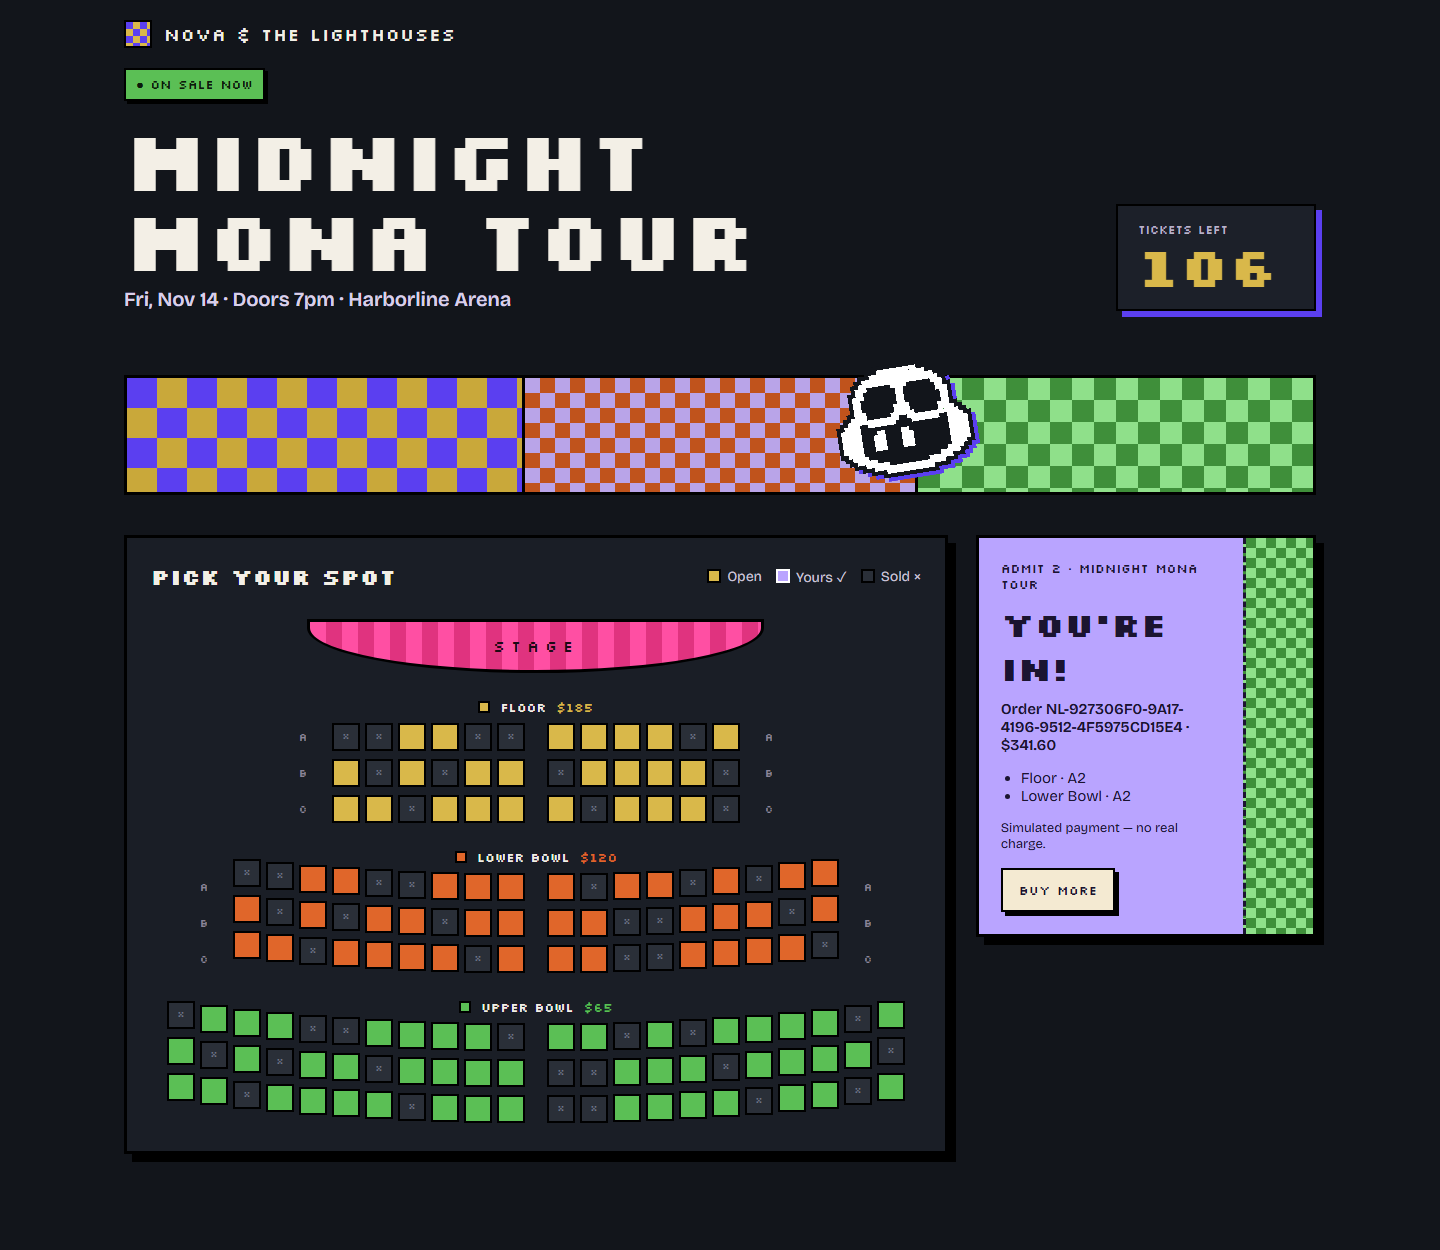
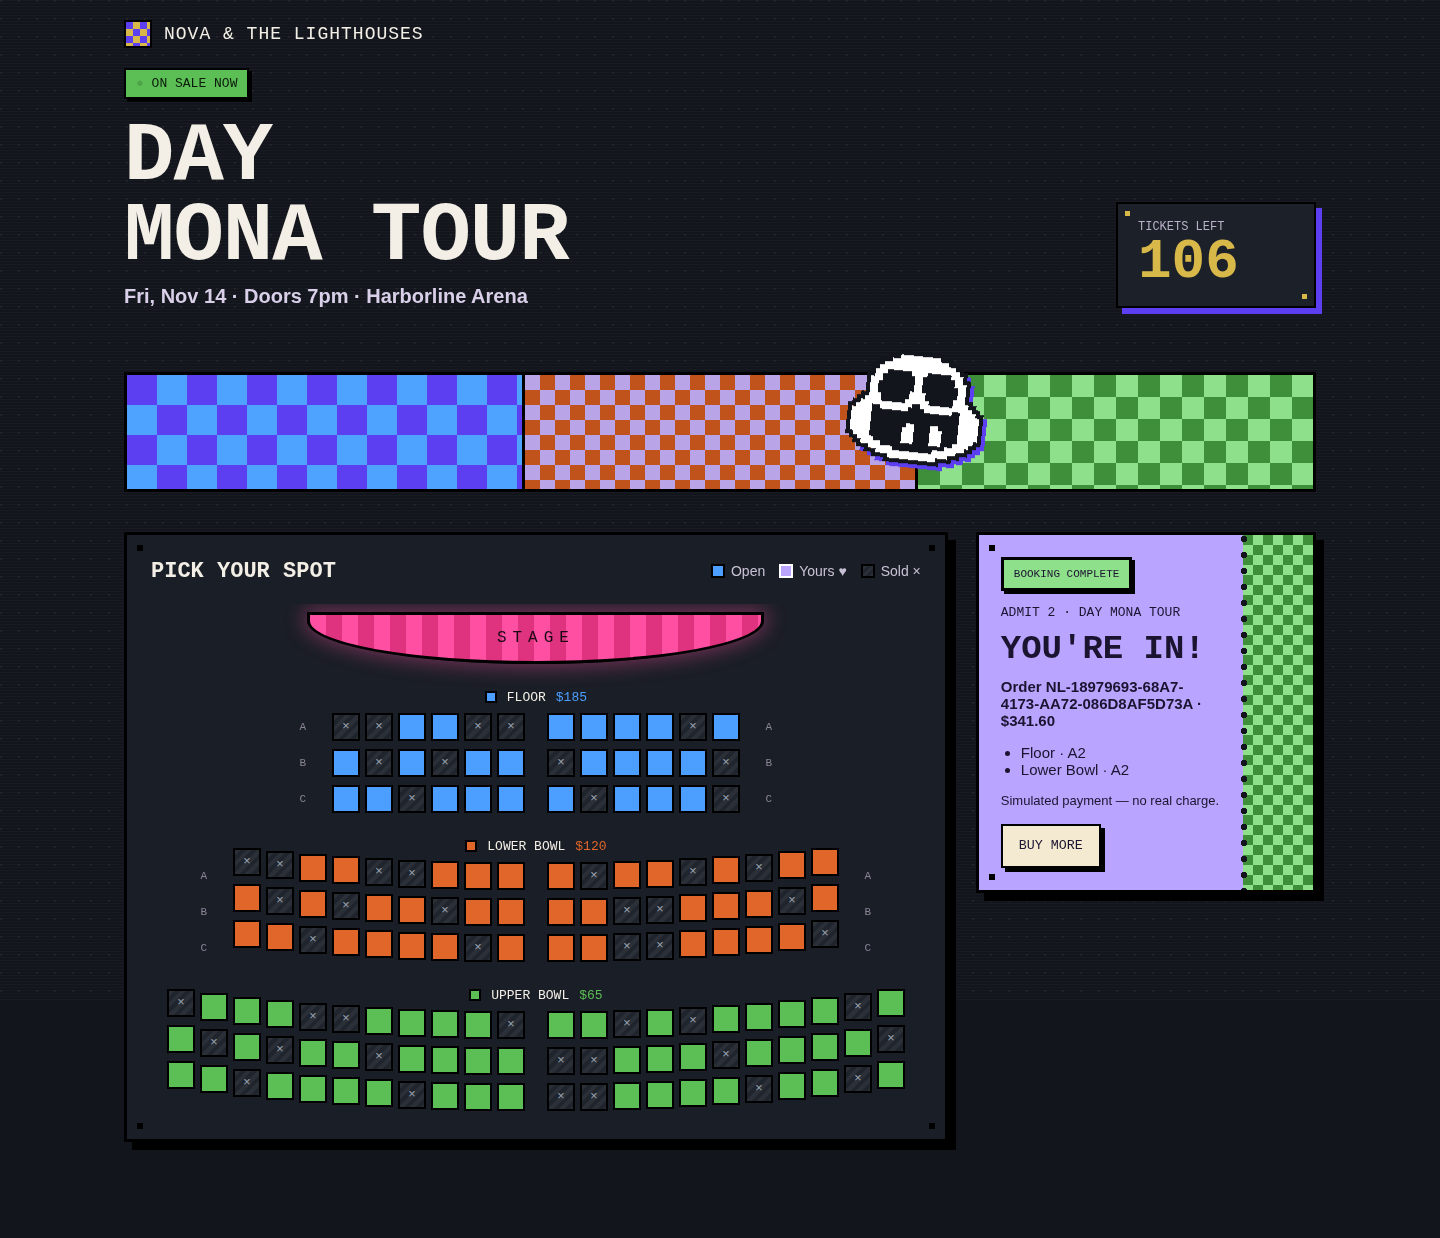
Update Day Mona tour booking colors and success celebration
Rename the tour across the UI, make Floor seats blue, and add reduced-motion-aware pixel confetti after successful checkout. Update the confirmation headline and refresh the existing UI screenshots.

diff --git a/src/main.ts b/src/main.ts
@@ -21,12 +21,13 @@ const CONFETTI_COLORS = ['var(--pink)', 'var(--mustard)', 'var(--mint)', 'var(--
 
 function confettiHTML(): string {
   let out = '';
-  for (let i = 0; i < 12; i++) {
-    const angle = Math.round((360 / 12) * i + (Math.random() * 20 - 10));
-    const dist = 40 + Math.round(Math.random() * 26);
-    const delay = (Math.random() * 0.15).toFixed(2);
+  for (let i = 0; i < 72; i++) {
+    const left = ((i + 0.5) / 72) * 100;
+    const drift = Math.round(Math.random() * 160 - 80);
+    const spin = (i % 2 === 0 ? 1 : -1) * 360;
+    const delay = (Math.random() * 0.8).toFixed(2);
     const color = CONFETTI_COLORS[i % CONFETTI_COLORS.length];
-    out += `<i style="--a:${angle}deg;--r:${dist}px;--d:${delay}s;--c:${color}"></i>`;
+    out += `<i style="--x:${left}%;--drift:${drift}px;--spin:${spin}deg;--d:${delay}s;--c:${color}"></i>`;
   }
   return out;
 }
@@ -123,7 +124,7 @@ function mount() {
     <div class="intro-marquee">
       <span class="marquee-bulbs" aria-hidden="true"></span>
       <span class="intro-kicker pixel">ONE NIGHT ONLY</span>
-      <h1 class="pixel intro-title" id="intro-title">MIDNIGHT<br />MONA TOUR</h1>
+      <h1 class="pixel intro-title" id="intro-title">${esc(EVENT.tour.toUpperCase()).replace(' ', '<br />')}</h1>
       <p class="intro-artist">${esc(EVENT.artist)}</p>
       <p class="intro-meta pixel">${esc(EVENT.date)} · ${esc(EVENT.venue)}</p>
       <button class="btn intro-enter" data-action="open-curtain">ENTER THE THEATER</button>
@@ -149,7 +150,7 @@ function mount() {
       <div class="hero-row">
         <div class="hero-copy">
           <span class="pill"><span class="dot">●</span> ON SALE NOW</span>
-          <h1 class="pixel hero-title">MIDNIGHT<br />MONA TOUR</h1>
+          <h1 class="pixel hero-title">${esc(EVENT.tour.toUpperCase()).replace(' ', '<br />')}</h1>
           <p class="hero-meta">${esc(`${EVENT.date} · ${EVENT.doors} · ${EVENT.venue}`)}</p>
         </div>
         <div class="counter" aria-live="polite">
@@ -173,7 +174,7 @@ function mount() {
         <div class="seatmap-head">
           <h2 class="pixel">PICK YOUR SPOT</h2>
           <div class="legend">
-            <span><i class="swatch swatch-open"></i>Open</span>
+            <span><i class="swatch swatch-open" style="background:${TIERS[0].color}"></i>Open</span>
             <span><i class="swatch swatch-mine"></i>Yours ♥</span>
             <span><i class="swatch swatch-sold"></i>Sold ×</span>
           </div>
@@ -259,9 +260,9 @@ function renderCart() {
     cart.innerHTML = `
       <section class="ticket pop" aria-label="Order confirmed">
         <div class="ticket-body">
-          <div class="confetti" aria-hidden="true">${confettiHTML()}</div>
+          <div class="pixel ticket-success">BOOKING COMPLETE</div>
           <div class="pixel ticket-kicker">ADMIT ${o.seats.length} · ${esc(EVENT.tour.toUpperCase())}</div>
-          <div class="pixel ticket-title">YOU'RE IN!</div>
+          <div class="pixel ticket-title">SEE YOU AT THE SHOW!</div>
           <div class="ticket-meta">Order ${esc(o.id)} · ${money(o.total)}</div>
           <ul class="ticket-seats">${o.seats.map((seat) => `<li>${esc(seat)}</li>`).join('')}</ul>
           <p class="ticket-note">Simulated payment — no real charge.</p>
@@ -322,6 +323,7 @@ function renderMobileBar() {
 }
 
 function render() {
+  document.querySelector('.confetti')?.remove();
   const left = ticketsLeft();
   $('#tickets-left').textContent = String(left);
   $('.counter').classList.toggle('counter--low', left > 0 && left <= LOW_TICKETS_THRESHOLD);
@@ -354,6 +356,14 @@ function confirmOrder(orderId: string, total: number, picked: Seat[]) {
   state.order = { id: orderId, total, seats: picked.map(seatName) };
   state.phase = 'confirmed';
   render();
+  if (!window.matchMedia('(prefers-reduced-motion: reduce)').matches) {
+    const celebration = document.createElement('div');
+    celebration.className = 'confetti';
+    celebration.setAttribute('aria-hidden', 'true');
+    celebration.innerHTML = confettiHTML();
+    document.body.appendChild(celebration);
+    window.setTimeout(() => celebration.remove(), 4000);
+  }
 }
 
 // ---------- events ----------

diff --git a/src/style.css b/src/style.css
@@ -725,7 +725,6 @@ h1, h2 { margin: 0; }
 .legend { display: flex; flex-wrap: wrap; gap: 14px; font-size: 14px; color: #c9c2d6; }
 .legend span { display: flex; align-items: center; gap: 6px; }
 .swatch { display: inline-block; width: 14px; height: 14px; border: 2px solid #000; }
-.swatch-open { background: #ffd84d; }
 .swatch-mine { background: var(--lavender); border-color: #fff; }
 .swatch-sold { background: repeating-linear-gradient(135deg, #2a2f38 0 3px, #20242c 3px 6px); }
 
@@ -837,23 +836,35 @@ h1, h2 { margin: 0; }
 .ticket-body { position: relative; flex: 1; padding: 22px; overflow: hidden; }
 .ticket-kicker { font-size: 13px; }
 
-.confetti { position: absolute; inset: 0; pointer-events: none; }
+.ticket-success {
+  width: fit-content;
+  margin-bottom: 14px;
+  padding: 8px 10px;
+  border: 3px solid #000;
+  box-shadow: 3px 3px 0 #000;
+  background: var(--mint);
+  color: var(--night);
+  font-size: 11px;
+}
+.confetti { position: fixed; inset: 0; z-index: 20; overflow: hidden; pointer-events: none; }
 .confetti i {
   position: absolute;
-  top: 34%;
-  left: 20%;
-  width: 6px;
-  height: 6px;
+  top: -24px;
+  left: var(--x);
+  width: 12px;
+  height: 12px;
   background: var(--c, var(--pink));
-  border: 1px solid #000;
+  border: 2px solid #000;
+  box-shadow: 3px 3px 0 #000;
   opacity: 0;
-  transform: rotate(var(--a, 0deg)) translate(0, 0) scale(1);
-  animation: confetti-burst 0.9s ease-out forwards;
+  animation: confetti-fall 3s steps(18, end) forwards;
   animation-delay: var(--d, 0s);
 }
-@keyframes confetti-burst {
-  0% { opacity: 1; transform: rotate(var(--a, 0deg)) translate(0, 0) scale(1); }
-  100% { opacity: 0; transform: rotate(var(--a, 0deg)) translate(var(--r, 46px), 0) scale(0.6); }
+.confetti i:nth-child(3n) { width: 8px; height: 16px; }
+@keyframes confetti-fall {
+  0% { opacity: 1; transform: translate(0, 0) rotate(0deg); }
+  85% { opacity: 1; }
+  100% { opacity: 0; transform: translate(var(--drift), calc(100vh + 48px)) rotate(var(--spin)); }
 }
 .ticket-title { font-weight: 700; font-size: 34px; margin: 10px 0; }
 .ticket-meta { font-size: 15px; font-weight: 600; }

diff --git a/src/data.ts b/src/data.ts
@@ -1,4 +1,4 @@
-// Venue, tiers and seat inventory for the Midnight Mona Tour.
+// Venue, tiers and seat inventory for the Day Mona Tour.
 
 export type TierId = 'floor' | 'lower' | 'upper';
 
@@ -26,7 +26,7 @@ export interface Seat {
 
 export const EVENT = {
   artist: 'Nova & the Lighthouses',
-  tour: 'Midnight Mona Tour',
+  tour: 'Day Mona Tour',
   date: 'Fri, Nov 14',
   doors: 'Doors 7pm',
   venue: 'Harborline Arena',
@@ -35,7 +35,7 @@ export const EVENT = {
 export const SERVICE_FEE_RATE = 0.12;
 
 export const TIERS: Tier[] = [
-  { id: 'floor', name: 'Floor', price: 185, rows: 3, perRow: 12, color: '#ffd84d', curve: 0 },
+  { id: 'floor', name: 'Floor', price: 185, rows: 3, perRow: 12, color: '#4d9fff', curve: 0 },
   { id: 'lower', name: 'Lower Bowl', price: 120, rows: 3, perRow: 18, color: '#e0662a', curve: 14 },
   { id: 'upper', name: 'Upper Bowl', price: 65, rows: 3, perRow: 22, color: '#5bbf55', curve: 22 },
 ];

diff --git a/index.html b/index.html
@@ -3,7 +3,7 @@
   <head>
     <meta charset="UTF-8" />
     <meta name="viewport" content="width=device-width, initial-scale=1.0" />
-    <title>Nova &amp; the Lighthouses — Midnight Mona Tour</title>
+    <title>Nova &amp; the Lighthouses — Day Mona Tour</title>
     <link rel="icon" type="image/svg+xml" href="/favicon.svg" />
     <link rel="preconnect" href="https://fonts.googleapis.com" />
     <link rel="preconnect" href="https://fonts.gstatic.com" crossorigin />

diff --git a/README.md b/README.md
@@ -1,13 +1,14 @@
-# Nova & the Lighthouses — Midnight Mona Tour
+# Nova & the Lighthouses — Day Mona Tour
 
 A pixel-art concert ticket-booking app with simulated payments. It uses Vite and TypeScript with no UI framework or backend.
 
 ## Quick overview
 
-- Pick seats from a color-coded arena map: Floor ($185), Lower Bowl ($120), or Upper Bowl ($65). Sold seats cannot be selected.
+- Pick seats from a color-coded arena map: blue Floor ($185), orange Lower Bowl ($120), or green Upper Bowl ($65). Selected seats stay lavender with a heart; sold seats stay dark with an × and cannot be selected.
 - Enter through a closed pixel-art theater curtain, reveal the tour teaser and reservation ticket, then proceed into seat selection. The intro includes reversible curtains, cursor-reactive spotlights, pixel dust, and optional synthesized 8-bit sound.
 - Add or remove seats and see the ticket count, subtotal, 12% service fee, and total update immediately.
 - Complete a simulated checkout to get a ticket-style confirmation with an order ID and purchased seats.
+- Successful payment triggers a short, full-screen shower of chunky pixel confetti and a **Booking Complete** badge. Reduced-motion users see the static badge without confetti.
 - Book on desktop or mobile, with a sticky mobile checkout bar and a horizontally scrollable seat map.
 
 ## UI improvements
@@ -26,7 +27,7 @@ A pixel-art concert ticket-booking app with simulated payments. It uses Vite and
 
 The experience begins with the curtain closed. Select **Enter the Theater** or press **Enter** to start the show.
 
-![Closed pixel-art theater curtain with the Midnight Mona Tour marquee](docs/screenshots/tour-curtain-closed.png)
+![Closed pixel-art theater curtain with the Day Mona Tour marquee](docs/screenshots/tour-curtain-closed.png)
 
 ### 2. Reveal the tour
 
